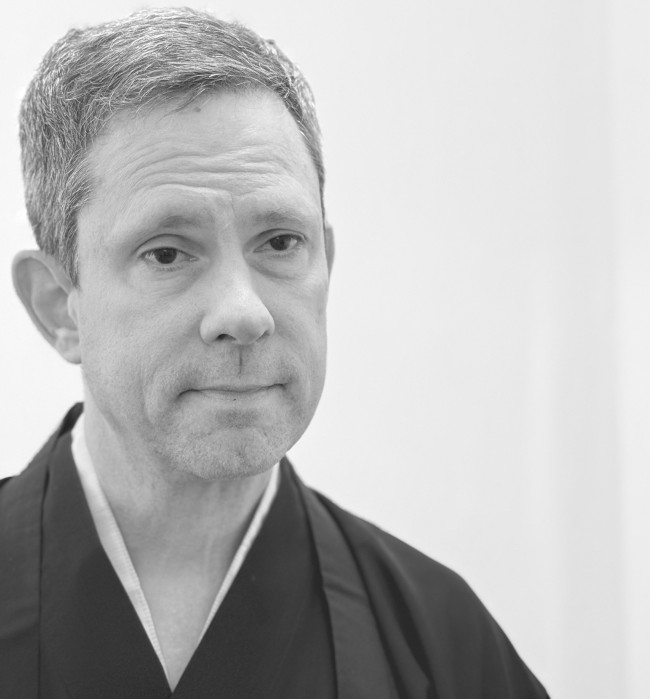
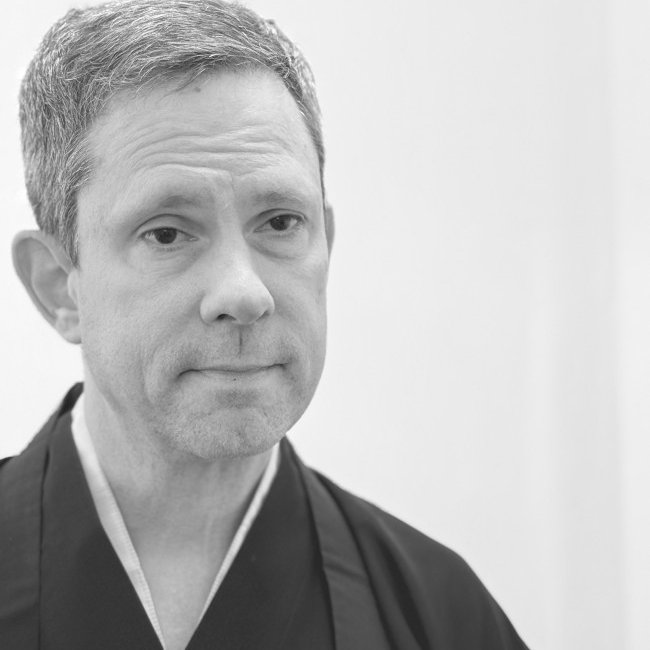
Square-crop portrait and use cover at 160px circle
Cropped image to a square so it fills the circle completely
with no background gaps. Back to object-fit: cover at 160px.

Claude-Session: https://claude.ai/code/session_01LNcX3QjUuesQKfpRGRUnKQ

diff --git a/styles.css b/styles.css
@@ -278,12 +278,10 @@ h1, h2, h3, h4 {
 }
 
 .hero-portrait {
-  width: 176px;
-  height: 176px;
+  width: 160px;
+  height: 160px;
   border-radius: 50%;
-  object-fit: contain;
-  object-position: 75% center;
-  background: #ececec;
+  object-fit: cover;
   margin: 0 auto 2rem;
   opacity: 0;
   animation: portraitFadeIn 2s ease forwards;
